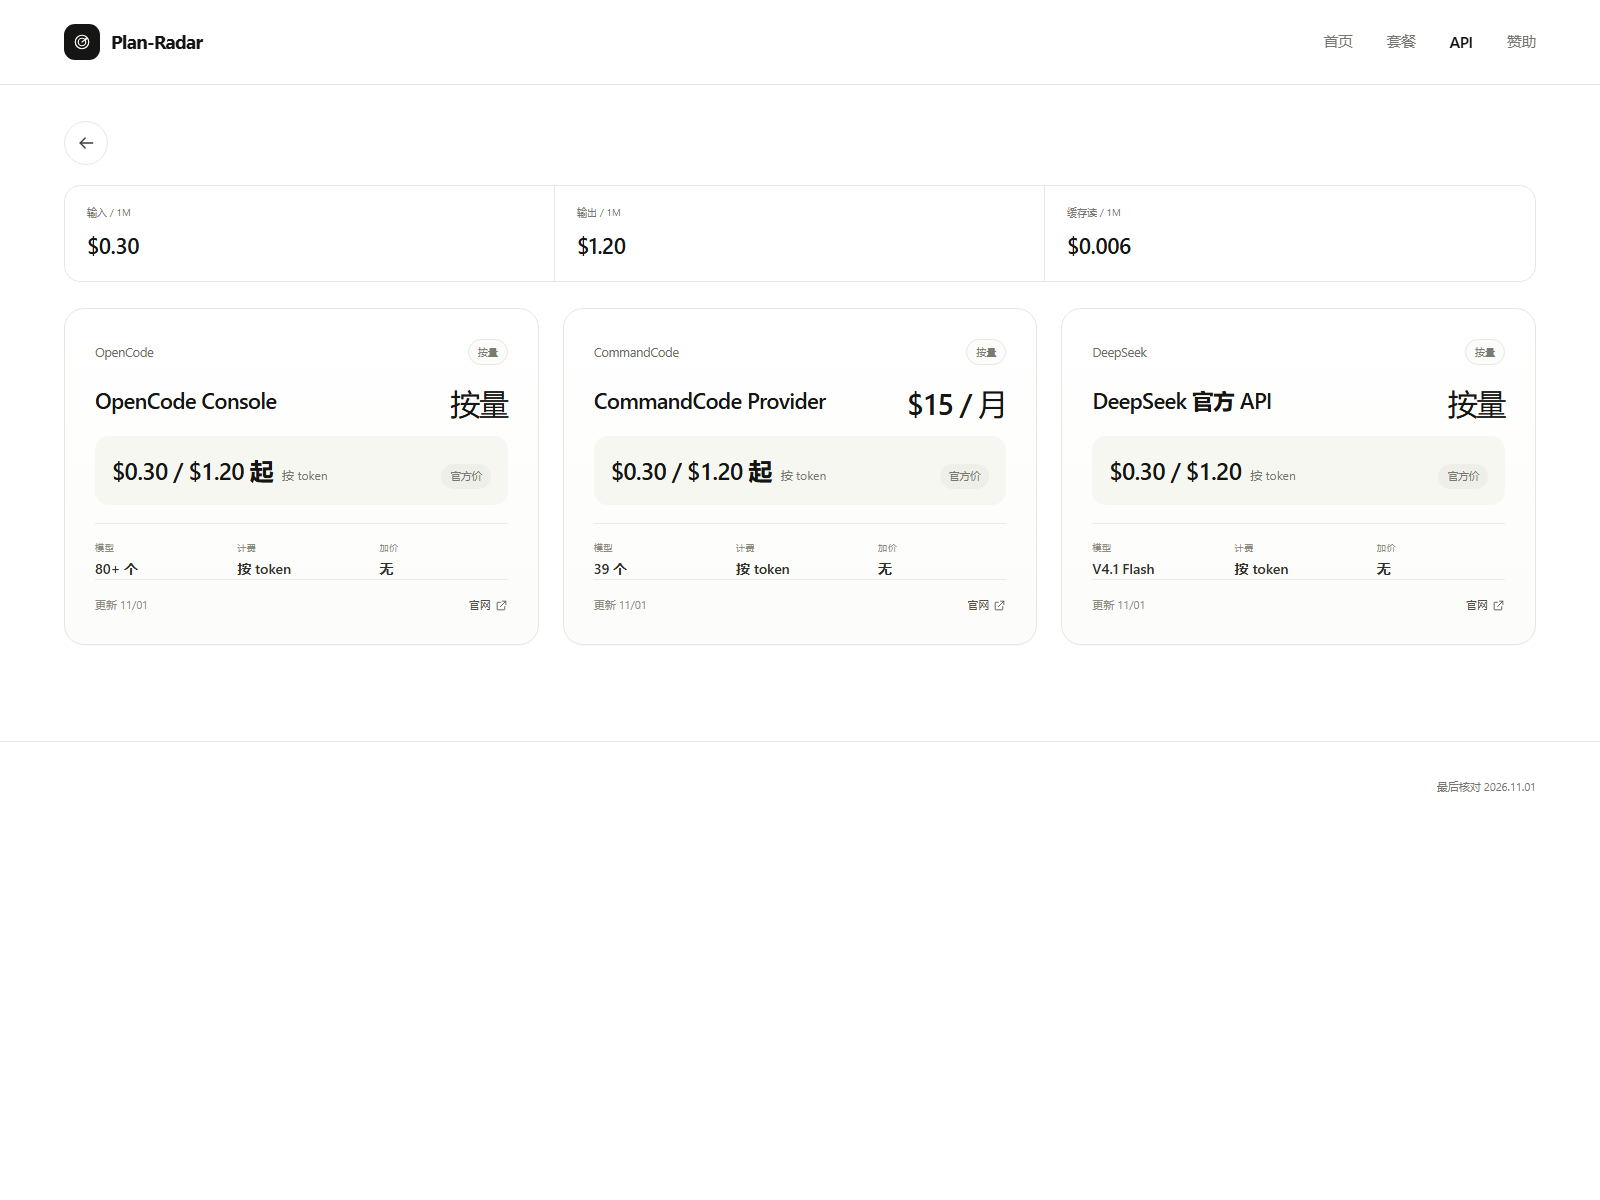
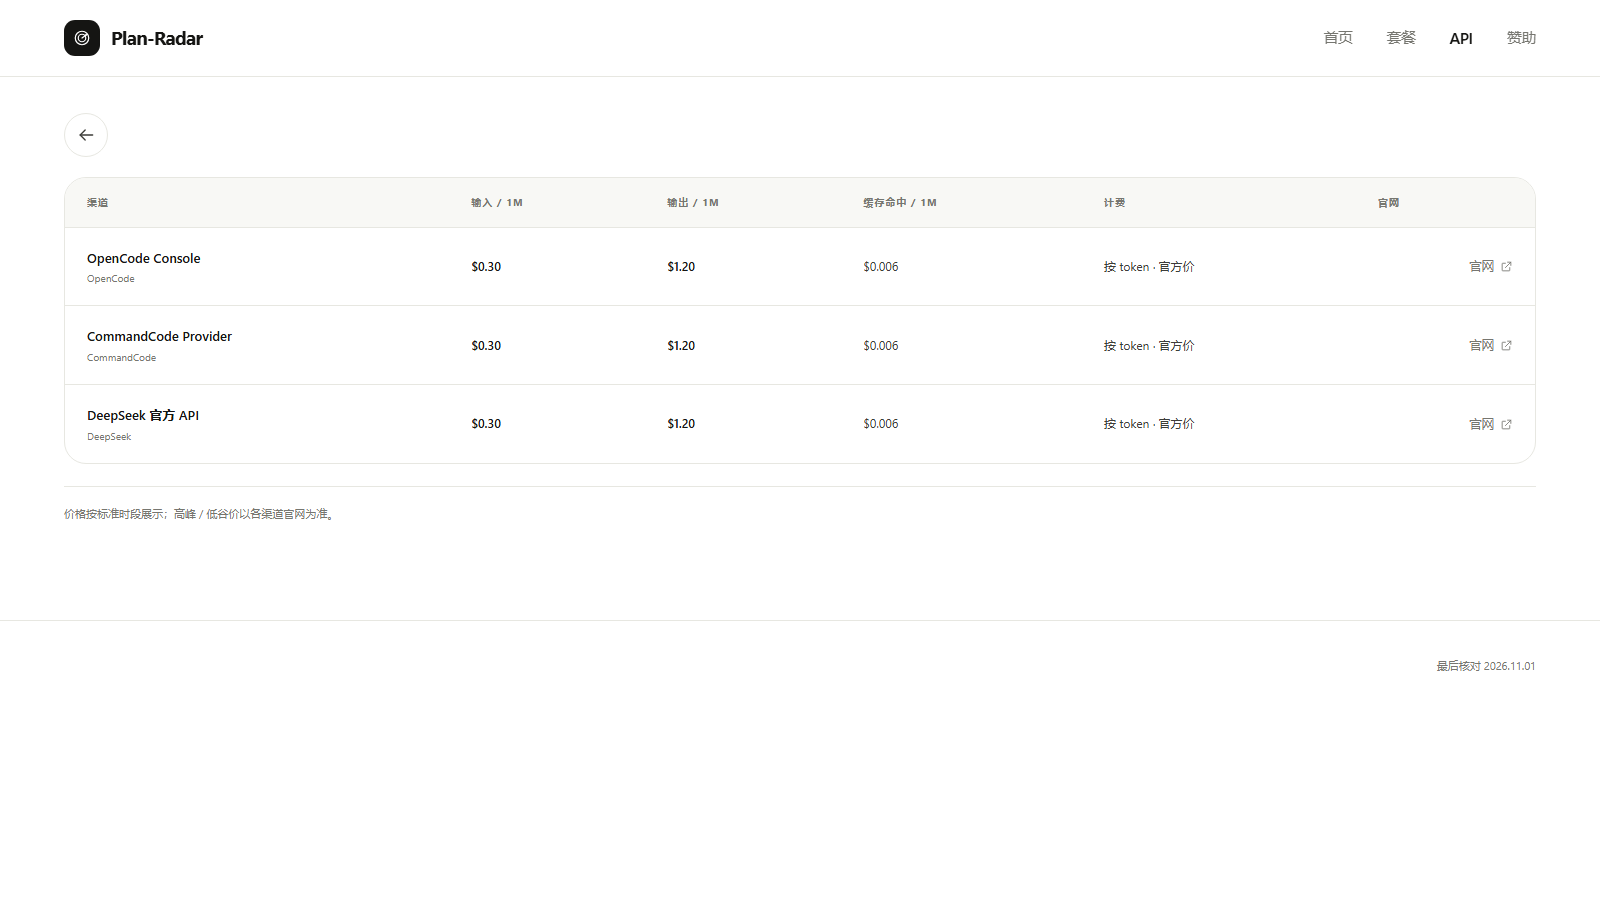
fix: api price table

diff --git a/app/api/[model]/page.tsx b/app/api/[model]/page.tsx
@@ -1,5 +1,4 @@
 import { notFound } from "next/navigation";
-import { ApiCard } from "@/components/ApiCard";
 import { Icon } from "@/components/Icon";
 import { apiChannels, tokenPrices } from "@/lib/api";
 import {
@@ -33,34 +32,53 @@ export default async function ModelApiPage({
         </a>
       </div>
 
-      {price ? (
-        <div className="token-strip">
-          <div>
-            <span>输入 / 1M</span>
-            <b>{price.input}</b>
+      {price && channels.length > 0 ? (
+        <>
+          <div className="table-wrap api-detail-table">
+            <table className="price-table">
+              <thead>
+                <tr>
+                  <th>渠道</th>
+                  <th>输入 / 1M</th>
+                  <th>输出 / 1M</th>
+                  <th>缓存命中 / 1M</th>
+                  <th>计费</th>
+                  <th>官网</th>
+                </tr>
+              </thead>
+              <tbody>
+                {channels.map((channel) => (
+                  <tr key={channel.id}>
+                    <td>
+                      <div className="channel-cell">
+                        <b>{channel.name}</b>
+                        <span>{channel.provider}</span>
+                      </div>
+                    </td>
+                    <td className="strong">{price.input}</td>
+                    <td className="strong">{price.output}</td>
+                    <td>{price.cached}</td>
+                    <td>{channel.billing} · {channel.markup}</td>
+                    <td className="r">
+                      <a
+                        className="link-arrow"
+                        href={channel.source}
+                        target="_blank"
+                        rel="noreferrer"
+                      >
+                        官网 <Icon name="external" className="icon icon-sm" />
+                      </a>
+                    </td>
+                  </tr>
+                ))}
+              </tbody>
+            </table>
           </div>
-          <div>
-            <span>输出 / 1M</span>
-            <b>{price.output}</b>
-          </div>
-          <div>
-            <span>缓存读 / 1M</span>
-            <b>{price.cached}</b>
-          </div>
-        </div>
-      ) : (
-        <p className="note">该模型暂无公开 token 价目，具体价格以渠道官网为准。</p>
-      )}
-
-      {channels.length > 0 ? (
-        <div className="api-grid">
-          {channels.map((channel) => (
-            <ApiCard key={channel.id} channel={channel} />
-          ))}
-        </div>
-      ) : (
-        <div className="empty">暂无提供该模型的 API 渠道。</div>
-      )}
+          <p className="note">
+            价格按标准时段展示；高峰 / 低谷价以各渠道官网为准。
+          </p>
+        </>
+      ) : null}
     </div>
   );
 }

diff --git a/app/globals.css b/app/globals.css
@@ -1071,6 +1071,11 @@ h1, h2, h3, p { margin: 0; }
 
 /* ---------- table ---------- */
 
+.api-detail-table { margin-top: 20px; }
+.api-detail-table .price-table td { font-size: 12px; }
+.channel-cell b { display: block; font-size: 13px; font-weight: 550; color: var(--ink); }
+.channel-cell span { display: block; margin-top: 2px; font-size: 10px; color: var(--muted); }
+
 .table-wrap {
   border: 1px solid var(--line);
   border-radius: var(--radius);
